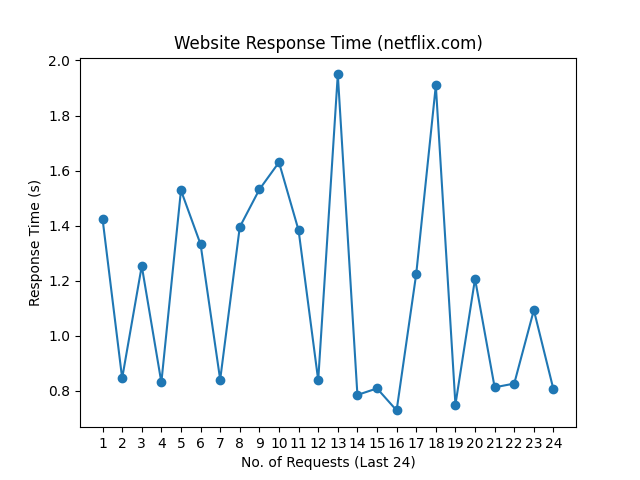
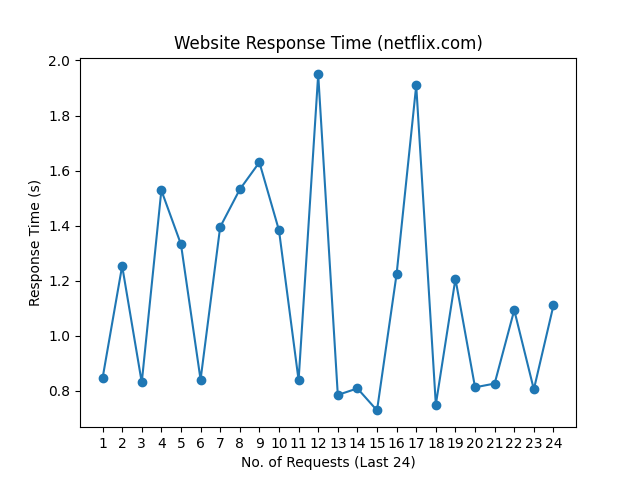
update README.md, history and graph

Changed region(s): [[0.1562, 0.125, 0.875, 0.875]]

diff --git a/README.md b/README.md
@@ -1,10 +1,10 @@
 # Web Monitoring
 
-Last Checked: 09/01/2025 08:20
+Last Checked: 10/01/2025 08:20
 
 | Website | Response Time (s) | Status | Avg Uptime (%) |
 |---------|-------------------|--------|----------------|
 | www.thiswebsiteisdown.net | 0 <br> <img src="graph/thiswebsiteisdown.net.png" alt="Graph" width="200" height="200">  | ❌ Down | 0.00 |
-| www.netflix.com | 0.804300 <br> <img src="graph/netflix.com.png" alt="Graph" width="200" height="200">  | ✅ Up | 99.81 |
-| www.google.com | 0.094005 <br> <img src="graph/google.com.png" alt="Graph" width="200" height="200">  | ✅ Up | 100.00 |
-| www.facebook.com | 1.019545 <br> <img src="graph/facebook.com.png" alt="Graph" width="200" height="200">  | ✅ Up | 100.00 |
+| www.netflix.com | 1.109610 <br> <img src="graph/netflix.com.png" alt="Graph" width="200" height="200">  | ✅ Up | 99.81 |
+| www.google.com | 0.192543 <br> <img src="graph/google.com.png" alt="Graph" width="200" height="200">  | ✅ Up | 100.00 |
+| www.facebook.com | 0.320854 <br> <img src="graph/facebook.com.png" alt="Graph" width="200" height="200">  | ✅ Up | 100.00 |
